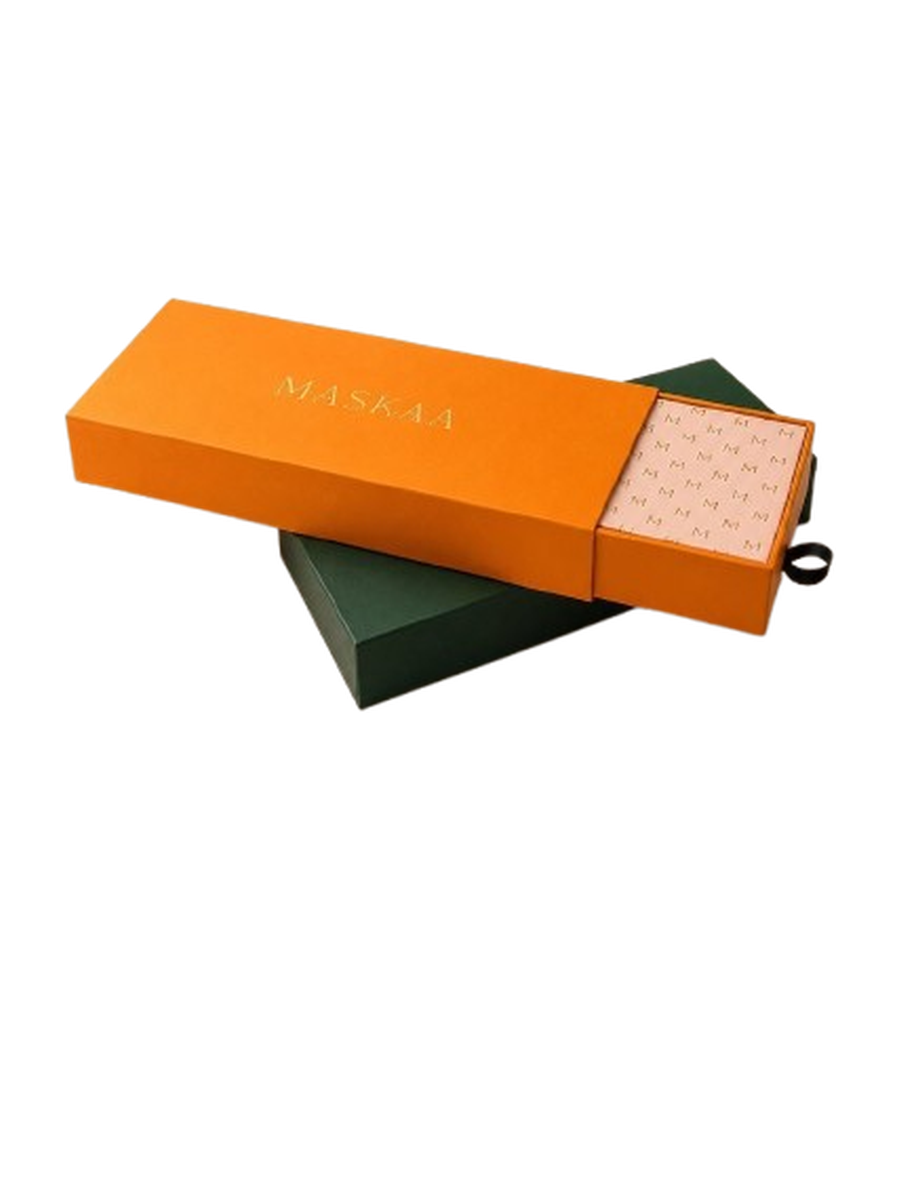
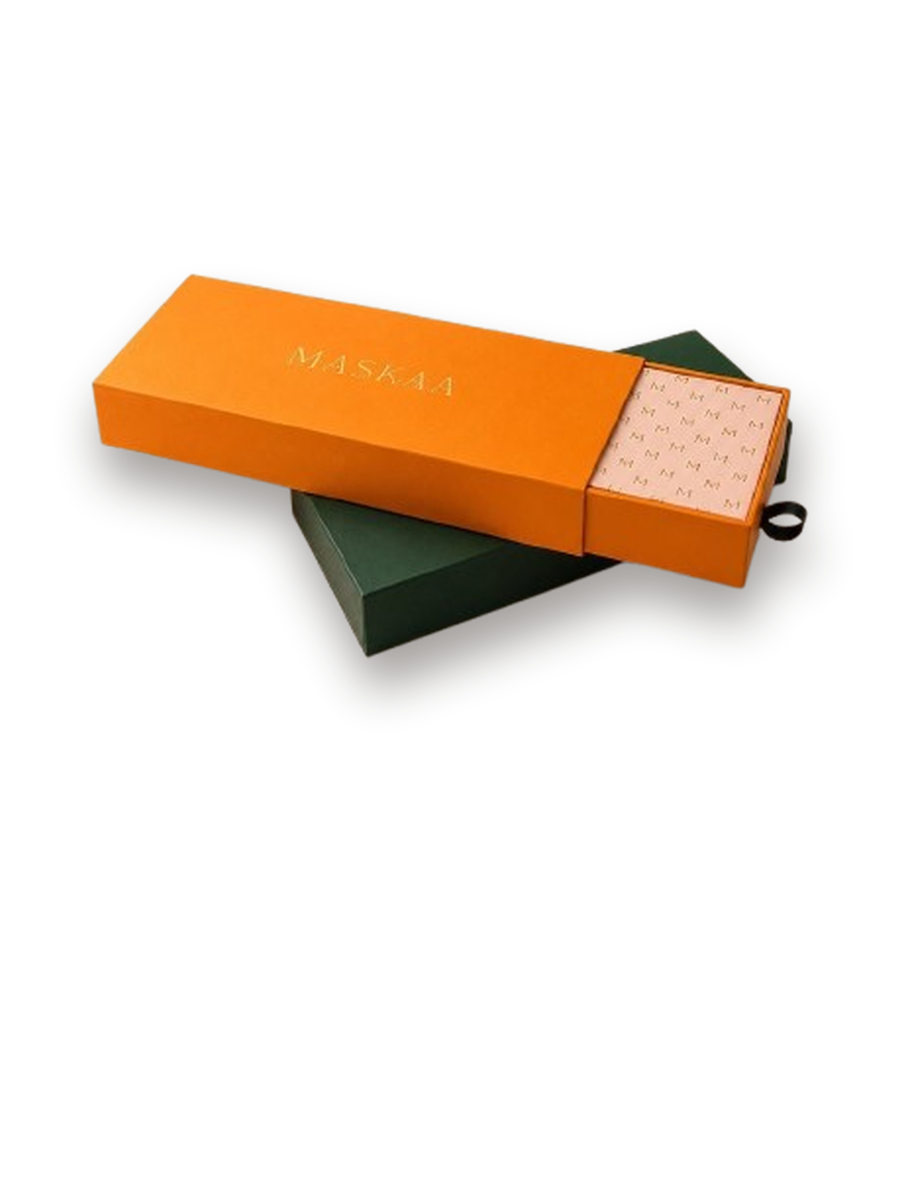
Drawer Style cut-out: bake soft grounding shadow under box

Changed region(s): [[0.0622, 0.2158, 0.9333, 0.5858]]

diff --git a/index.html b/index.html
@@ -206,8 +206,7 @@ footer{background:var(--ink);color:var(--cream);padding:3rem 3.5rem;display:flex
 .type-card,.seg-card{box-shadow:none}
 /* transparent cut-out boxes: float on cream with one consistent soft shadow */
 .type-card.cutout,.seg-card.cutout{background:#F4E8D9}
-.type-card.cutout img,.seg-card.cutout img{object-fit:contain;filter:drop-shadow(0 16px 16px rgba(54,44,34,.26))}
-.type-card.cutout:hover img,.seg-card.cutout:hover img{filter:drop-shadow(0 22px 22px rgba(54,44,34,.3))}
+.type-card.cutout img,.seg-card.cutout img{object-fit:contain;filter:none}
 </style>
 </head>
 <body>